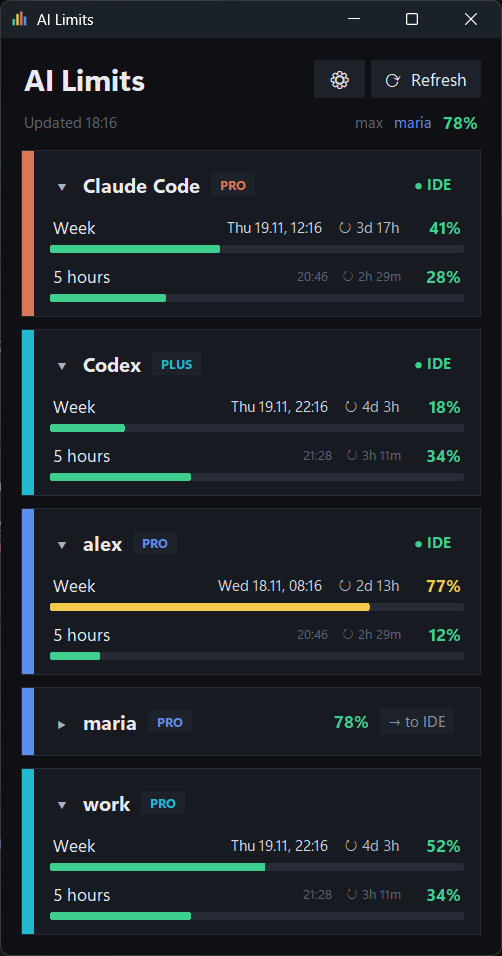
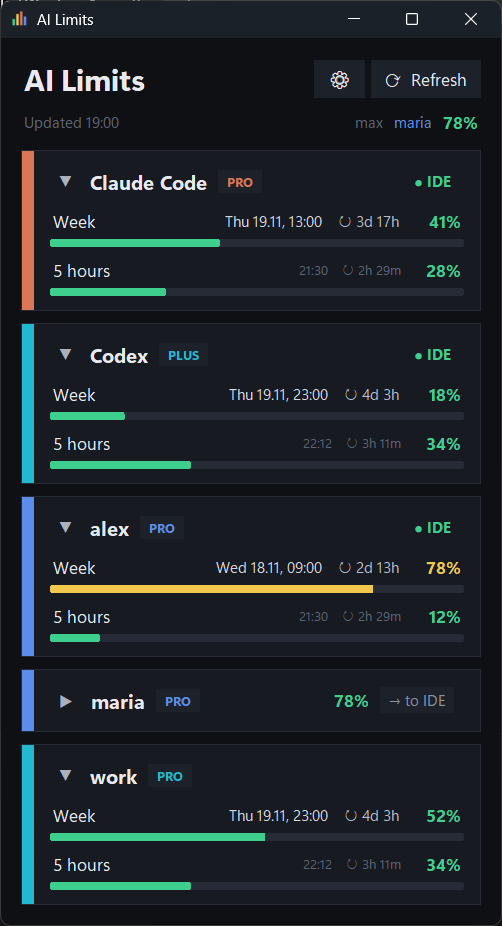
1.5.0: align collapse arrow and auto-fit window height

diff --git a/tests/test_gui.py b/tests/test_gui.py
@@ -379,7 +379,16 @@ def main():
     cl.title.event_generate("<ButtonRelease-1>")
     yield wait()
     assert "claude" not in app.collapsed
-    assert int(str(cl.arrow.cget("font")).split()[-1]) >= 14            # стрелка сворачивания крупнее
+    assert cl.arrow.winfo_reqheight() <= cl.title.winfo_reqheight()     # стрелка не выше названия: строка прежняя
+    assert cl.arrow.winfo_reqwidth() > cl.arrow.winfo_reqheight() * 0.9 and cl.arrow.cget("text") == "▼"
+    h0 = root.winfo_height()
+    cl.arrow.event_generate("<Button-1>")
+    yield wait(0.5)
+    assert "claude" in app.collapsed
+    assert root.winfo_height() < h0 - 40, (h0, root.winfo_height())     # окно подогналось под свёрнутую плитку
+    cl.arrow.event_generate("<Button-1>")
+    yield wait(0.5)
+    assert "claude" not in app.collapsed and abs(root.winfo_height() - h0) < 4, (h0, root.winfo_height())
     cl.arrow.event_generate("<Button-1>")
     yield wait()
     assert "claude" in app.collapsed and SAVED and "claude" in SAVED[-1]["collapsed"]
@@ -536,6 +545,8 @@ def main():
     yield wait(10, lambda: not app.adding and not app.loading and "claude:second@example.com" in app.cards,
                "Claude не добавился")
     t2 = app.tile_info["claude:second@example.com"]
+    yield wait(0.5)
+    assert abs(root.winfo_height() - (app.cv.winfo_rooty() - root.winfo_rooty() + app.body.winfo_reqheight() + 14)) < 4         or root.winfo_height() >= root.winfo_screenheight() - 130, "окно не подогналось под новую плитку"
     assert t2["title"] == "second" and t2["res"]["limits"][0]["used"] == 30.0 and not t2["ide"]
     assert app.cards["claude:second@example.com"].ide_mode is None      # кнопки «→ в …» у Claude пока нет
     app.add_account("claude")

diff --git a/ui_cards.py b/ui_cards.py
@@ -117,7 +117,9 @@ class CardView:
         self.head = h
         h.bind("<Configure>", lambda e: self.fit_title())
         # стрелка сворачивания — заметная, светлеет при наведении; щелчок по названию плитку не сворачивает
-        self.arrow = tk.Label(h, text="▾", bg=CARD, fg="#aab0bc", font=(FONT, 15), padx=3)
+        # крупный треугольник ▼/▶ мелким шрифтом: стрелка заметнее, а высота строки — как у названия;
+        # кнопка шире (padx), а не выше
+        self.arrow = tk.Label(h, text="▼", bg=CARD, fg="#aab0bc", font=(FONT, 9), padx=7, pady=0)
         self.arrow.grid(row=0, column=0, padx=(0, 6))
         self.arrow.bind("<Enter>", lambda e: self.collapsible and self.arrow.config(fg=FG, bg=CARD_HI))
         self.arrow.bind("<Leave>", lambda e: self.arrow.config(fg="#aab0bc", bg=CARD))
@@ -166,7 +168,8 @@ class CardView:
     def update(self, spec, warn):
         self.collapsible = spec["collapsible"]
         _vis(self.arrow, self.collapsible)
-        _set(self.arrow, text="▸" if spec["folded"] else "▾", cursor="hand2" if self.collapsible else "")
+        _set(self.arrow, text="▶" if spec["folded"] else "▼", cursor="hand2" if self.collapsible else "",
+             font=(FONT, 10 if spec["folded"] else 9))  # ▶ в этом шрифте мельче ▼ — на пункт крупнее
         if spec.get("title") and spec["title"] != self.full_title:  # имя аккаунта сменилось
             self.full_title = spec["title"]
             self.fit_title()
